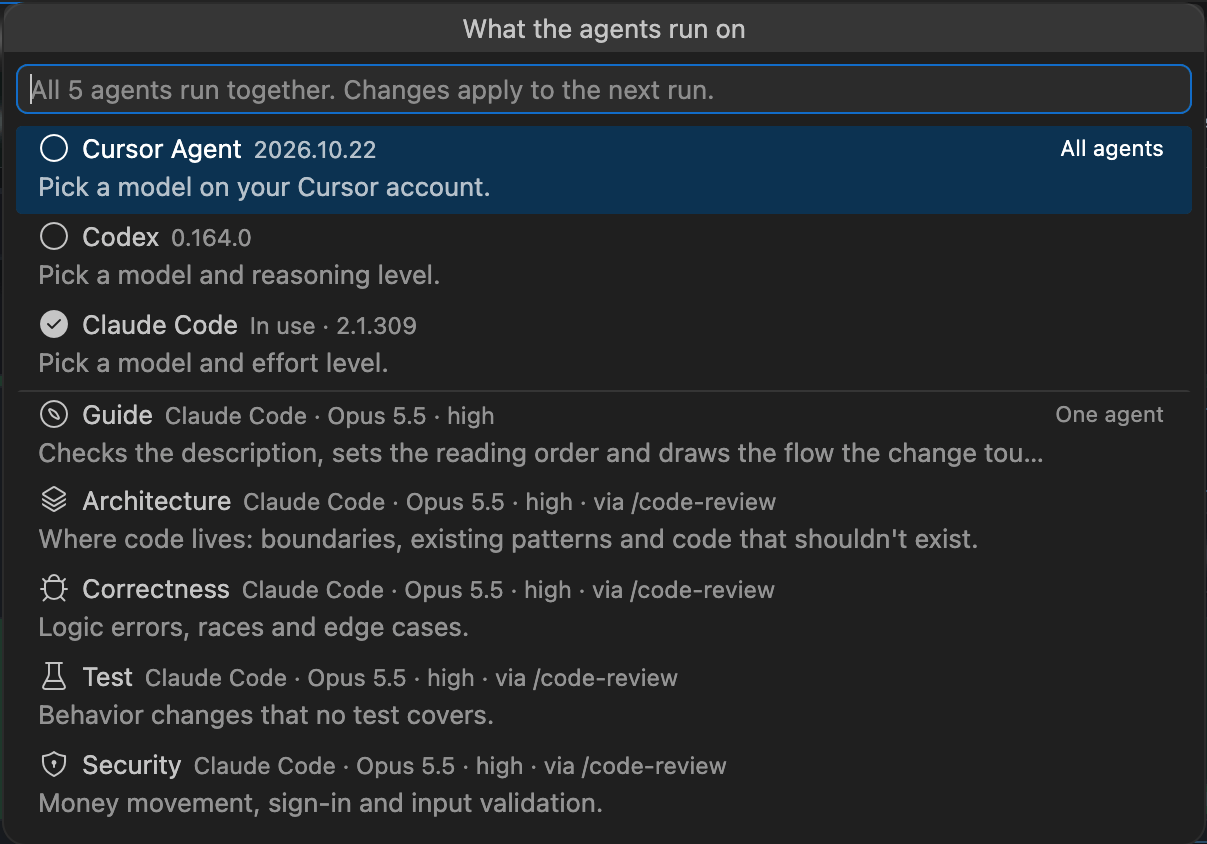
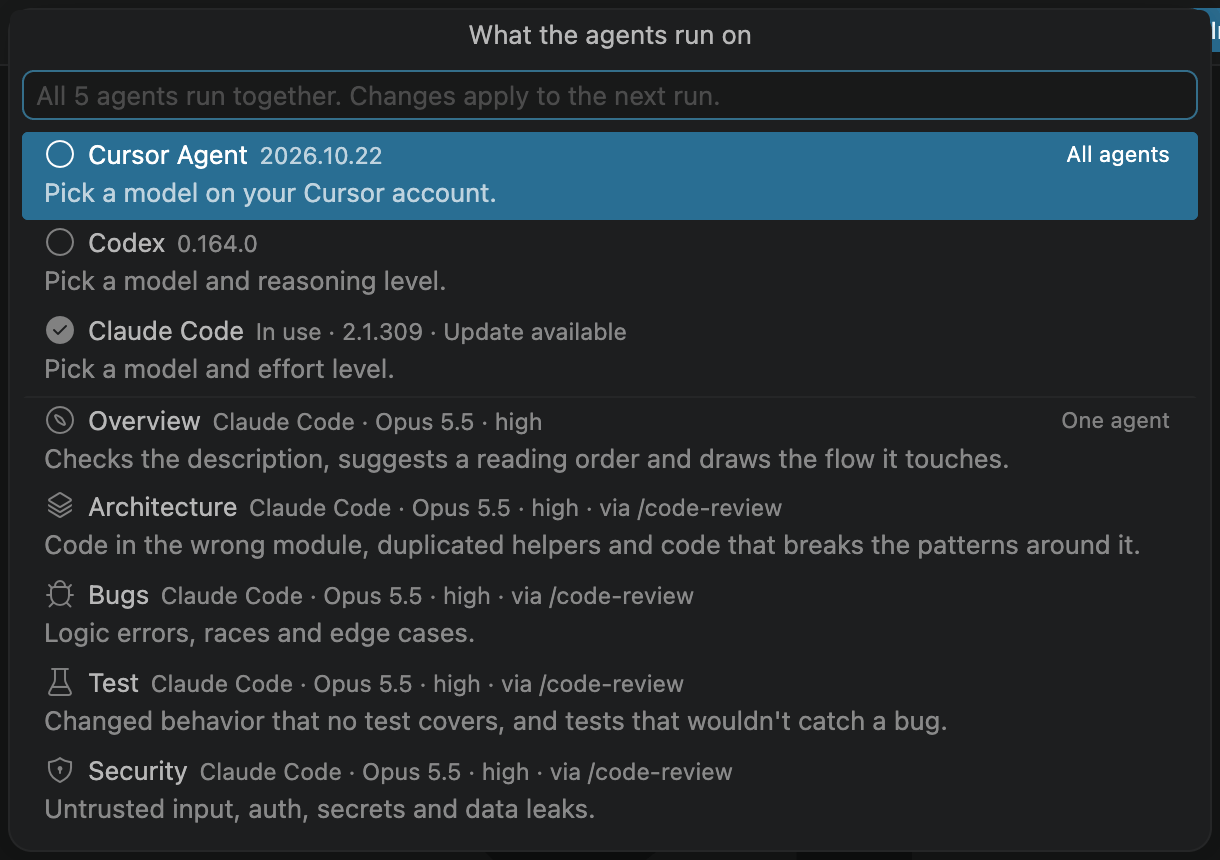
Rename the guide and correctness agents to Overview and Bugs, with clearer lines in the picker
The ids stay, so agents.yml, instruction files, saved reviews and per-PR choices keep working. An agents.yml whose
names or lines are still an earlier default gets the new ones; anything someone wrote stays.

diff --git a/docs/index.html b/docs/index.html
@@ -38,7 +38,7 @@
 <p>Click a row to open its review page. For a pull request that isn&#39;t listed, run <strong>X-RayViewer: Open a Pull Request…</strong> (<strong>⌥⇧⌘P</strong> on macOS, <strong>Ctrl+Shift+Alt+P</strong> on Windows and Linux) and paste its GitHub link.</p>
 <h3 id="2-run-the-agents">2. Run the agents</h3>
 <p><a class="shot" href="run-agents.png"><img src="run-agents.png" alt="A review page before any agent ran: No agent review yet, with Run agents and the Post all findings when finished checkbox beside it"></a></p>
-<p>Press <strong>Run agents</strong>. Five agents run together: the <strong>guide</strong> checks the description, sets the reading order, and draws the flow, while <strong>architecture</strong>, <strong>correctness</strong>, <strong>tests</strong>, and <strong>security</strong> look for problems. A run takes a few minutes, and you can read the diff meanwhile. The arrow beside <strong>Run agents</strong> picks the program and model (see <strong>Pick the program and model</strong> below).</p>
+<p>Press <strong>Run agents</strong>. Five agents run together: the <strong>overview</strong> agent checks the description, suggests a reading order, and draws the flow, while the <strong>architecture</strong>, <strong>bugs</strong>, <strong>test</strong>, and <strong>security</strong> agents look for problems. A run takes a few minutes, and you can read the diff meanwhile. The arrow beside <strong>Run agents</strong> picks the program and model (see <strong>Pick the program and model</strong> below).</p>
 <p>Leave <strong>Post all findings when finished</strong> unchecked for now. When it&#39;s checked, the run ends by posting every open finding to GitHub as comments, before you&#39;ve read them.</p>
 <h3 id="3-watch-them-work">3. Watch them work</h3>
 <p><a class="shot" href="agent-activity.png"><img src="agent-activity.png" alt="Agent Activity while a review runs: the guide agent finished in 46 seconds for $0.32, the code review agent is in progress, and four agents are covered by it"></a></p>
@@ -48,8 +48,8 @@
 <p><a class="shot" href="findings.png"><img src="findings.png" alt="The briefing after a run: the flow drawn as 8 steps, then 2 medium and 10 low findings, Add all 12 to my review, and 10 things checked and fine"></a></p>
 <p>When the run finishes, the top of the page is the agents&#39; briefing: a summary of the change, how well the description covers what your team asks for, the flow the change touches, and the findings grouped by <strong>High</strong>, <strong>Medium</strong>, and <strong>Low</strong>. Click a finding to jump to its line. <strong>10 things checked and fine</strong> lists what the agents looked at and cleared.</p>
 <h3 id="5-read-the-change-in-order">5. Read the change in order</h3>
-<p><a class="shot" href="map.png"><img src="map.png" alt="The map: the guide agent&#39;s drawing of the flow, each numbered box linked to its lines, and a Start here list of the boxes with findings"></a></p>
-<p>The rail on the left splits the diff into chapters, in the order the guide suggests: code that the rest depends on comes first. <strong>Map</strong> draws the flow the change touches. Each numbered box links to its lines, and <strong>Follow the flow</strong> walks you through them.</p>
+<p><a class="shot" href="map.png"><img src="map.png" alt="The map: the overview agent&#39;s drawing of the flow, each numbered box linked to its lines, and a Start here list of the boxes with findings"></a></p>
+<p>The rail on the left splits the diff into chapters, in the order the overview agent suggests: code that the rest depends on comes first. <strong>Map</strong> draws the flow the change touches. Each numbered box links to its lines, and <strong>Follow the flow</strong> walks you through them.</p>
 <p>Mark each hunk reviewed as you go. The ring at the top counts them, and <strong>Saved locally</strong> in the bar means your marks and drafts are on disk. Press <code>j</code> and <code>k</code> to move between hunks, <code>r</code> to mark one reviewed, and <code>c</code> to comment.</p>
 <h3 id="6-decide-each-finding">6. Decide each finding</h3>
 <p><a class="shot" href="finding-on-line.png"><img src="finding-on-line.png" alt="A finding under the line it&#39;s about: the agent, severity, and confidence, what&#39;s wrong, How the agent got there, a suggested fix, and Add to my review, Add all 12, Copy, and Dismiss"></a></p>
@@ -62,7 +62,7 @@
 <p>Press <strong>Post review</strong> in the bar. The sheet sums up what you reviewed and what will be sent. Pick <strong>Comment</strong>, <strong>Approve</strong>, or <strong>Request changes</strong>, add a summary, and press <strong>Post to GitHub</strong>. It asks once more, <strong>Post as @you to owner/name #12?</strong>, and <strong>Post now</strong> sends it. <strong>Preview what&#39;s sent</strong> shows the exact text first.</p>
 <p>After that the button says <strong>Update review</strong>, the line under the title says what you did, such as &quot;You approved this 2 hours ago&quot;, and the sidebar row says <strong>Reviewed &amp; posted</strong>.</p>
 <h2 id="how-a-review-works">How a review works</h2>
-<p><a class="shot" href="how-it-works.png"><img src="how-it-works.png" alt="How a review works: X-RayViewer reads the pull request from GitHub with gh and git, checks it out locally, runs the guide and four review agents in parallel through your model provider&#39;s CLI, and shows the briefing, chapters, map, and findings on the review page, where you decide what to keep before posting one review back to GitHub"></a></p>
+<p><a class="shot" href="how-it-works.png"><img src="how-it-works.png" alt="How a review works: X-RayViewer reads the pull request from GitHub with gh and git, checks it out locally, runs the overview agent and four review agents in parallel through your model provider&#39;s CLI, and shows the briefing, chapters, map, and findings on the review page, where you decide what to keep before posting one review back to GitHub"></a></p>
 <p>The agents read a local checkout at the pull request&#39;s head commit and change nothing. Each finding comes back with a severity, the exact line, why it matters, and a suggested comment. Your drafts, review marks, and agent results are saved on this computer, so they survive a restart. The only write to GitHub is your review, when you press <strong>Post now</strong>.</p>
 <h2 id="review-several-at-once">Review several at once</h2>
 <p>Check up to five rows in the sidebar, then use the buttons under the list. <strong>Open 2 pull requests</strong> opens each in its own tab. <strong>Review 2 and post</strong> opens them, runs their agents, and posts each one&#39;s open findings as comments when its run finishes, as if <strong>Post all findings when finished</strong> were checked on each.</p>
@@ -85,7 +85,7 @@
 <p>On a review page, the picker is for that pull request only, so two pull requests can run on different models. <strong>Use the default</strong> drops that pull request&#39;s own choice, and <strong>Change the default…</strong> changes it for every other pull request.</p>
 <p>A program that&#39;s missing says <strong>Not installed</strong>, and one with a newer release says <strong>Update available</strong>. The download button beside it installs it. <strong>Change installed version…</strong> picks another installed copy of Claude Code or Codex.</p>
 <h2 id="change-what-the-agents-look-for">Change what the agents look for</h2>
-<p>The first run writes <code>~/.xrayviewer</code> (<code>XRAYVIEWER_HOME</code> moves it): <code>agents.yml</code> lists the agents, and <code>agents/&lt;id&gt;.md</code> holds each agent&#39;s instructions under <strong>Look for</strong> and <strong>Leave alone</strong>. <strong>X-RayViewer: Customize Agents…</strong> opens them, and changes apply on the next run.</p>
+<p>The first run writes <code>~/.xrayviewer</code> (<code>XRAYVIEWER_HOME</code> moves it): <code>agents.yml</code> lists the agents, and <code>agents/&lt;id&gt;.md</code> holds each agent&#39;s instructions under <strong>Look for</strong> and <strong>Leave alone</strong>. <strong>X-RayViewer: Customize Agents…</strong> opens them, and changes apply on the next run. The ids are older than some names: the overview agent is <code>guide</code>, and the bugs agent is <code>correctness</code>.</p>
 <p>To add an agent, run <strong>X-RayViewer: New Agent…</strong>, or add a block to <code>agents.yml</code> and a matching <code>agents/migrations.md</code>:</p>
 <pre><code class="language-yaml">agents:
   migrations:

diff --git a/test/wiring.test.ts b/test/wiring.test.ts
@@ -312,6 +312,54 @@ describe("the patched extension", () => {
     assert.deepEqual(Yt().harnesses.cursor, { id: "cursor", command: state.settings["xrayviewer.cursor.path"], model: "", extraArgs: [] });
   });
 
+  test("a fresh install has the Overview, Architecture, Bugs, Test and Security agents, each with a line on what it looks at", async () => {
+    const { $t } = ext.__xrayviewer;
+    const agents = (await $t()).settings.agents as Record<string, { name: string; focus: string }>;
+    assert.deepEqual(
+      Object.entries(agents).map(([id, agent]) => [id, agent.name, agent.focus]),
+      [
+        ["guide", "Overview agent", "Checks the description, suggests a reading order and draws the flow it touches"],
+        ["architecture", "Architecture agent", "Code in the wrong module, duplicated helpers and code that breaks the patterns around it"],
+        ["correctness", "Bugs agent", "Logic errors, races and edge cases"],
+        ["tests", "Test agent", "Changed behavior that no test covers, and tests that wouldn't catch a bug"],
+        ["security", "Security agent", "Untrusted input, auth, secrets and data leaks"],
+      ],
+    );
+  });
+
+  test("an agents.yml from an earlier version gets the new names and lines, and keeps the ones someone wrote", async () => {
+    const { ut, $t } = ext.__xrayviewer;
+    const file = path.join(process.env.XRAYVIEWER_HOME!, "agents.yml");
+    const fresh = await readFile(file, "utf8");
+    const swap = (text: string, now: string, was: string) => {
+      assert.ok(text.includes(now), now);
+      return text.replace(now, was);
+    };
+    let earlier = swap(fresh, '"Overview agent"', '"Guide agent"');
+    earlier = swap(earlier, `"Checks the description, suggests a reading order and draws the flow it touches"`, '"Checks the description, sets the reading order and draws the flow the change touches"');
+    earlier = swap(earlier, '"Bugs agent"', '"Logic agent"');
+    earlier = swap(earlier, `"Changed behavior that no test covers, and tests that wouldn't catch a bug"`, '"Payments that no test covers"');
+    earlier = swap(earlier, '"Untrusted input, auth, secrets and data leaks"', '"Money movement, sign-in and input validation"');
+    try {
+      await writeFile(file, earlier);
+      await ut();
+
+      const agents = (await $t()).settings.agents as Record<string, { name: string; focus: string }>;
+      assert.deepEqual(
+        ["guide", "correctness", "tests", "security"].map((id) => [agents[id].name, agents[id].focus]),
+        [
+          ["Overview agent", "Checks the description, suggests a reading order and draws the flow it touches"],
+          ["Logic agent", "Logic errors, races and edge cases"],
+          ["Test agent", "Payments that no test covers"],
+          ["Security agent", "Untrusted input, auth, secrets and data leaks"],
+        ],
+      );
+      assert.match(await readFile(file, "utf8"), /^ {4}name: "Overview agent"$/m, "the file keeps its quotes");
+    } finally {
+      await writeFile(file, fresh);
+    }
+  });
+
   test("agents.yml keeps one agent's own level until the agent moves to another harness", async () => {
     const { Eu, xrvSetEffort, $t } = ext.__xrayviewer;
     const [id] = Object.keys((await $t()).settings.agents);
@@ -361,7 +409,7 @@ describe("the patched extension", () => {
     assert.deepEqual(pick.items.filter((item) => item.agent).map((item) => item.agent), ["pick-cursor", "install-codex", "install-claude", ...ids]);
     assert.ok(pick.items.filter((item) => item.agent).every((item) => item.iconPath instanceof ThemeIcon && item.iconPath.id === item.icon), "every row draws its icon");
     const guide = pick.items.find((item) => item.agent === "guide")!;
-    assert.equal(guide.label, "Guide");
+    assert.equal(guide.label, "Overview");
     assert.equal(guide.detail, `${agents.guide.focus}.`);
     assert.equal(guide.iconPath.id, "compass");
     assert.ok(!pick.items.some((item) => item.agent === "run" || item.agent === "default"), "the picker only saves; Run agents runs");
@@ -613,7 +661,7 @@ describe("the patched extension", () => {
 
     assert.deepEqual(result.file.agents.map((a: { id: string; short: string }) => [a.id, a.short]), [
       ["claude-code-review", "Code review"],
-      ["correctness", "Correctness"],
+      ["correctness", "Bugs"],
       ["tests", "Test"],
     ]);
     assert.deepEqual(result.file.findings.map((f: { agent: string; title: string; severity: string }) => [f.agent, f.title, f.severity]), [

diff --git a/test/support/load-extension.ts b/test/support/load-extension.ts
@@ -51,7 +51,7 @@ export function stubModule(name: string, overrides: Record<string, unknown>): ob
 export async function loadExtension(distDir: string, vscode: object) {
   const original = path.join(distDir, "extension.cjs");
   const copy = path.join(distDir, "extension.test.cjs");
-  await writeFile(copy, `${await readFile(original, "utf8")}\n;module.exports.__xrayviewer={Na,Yt,Xt,Nt,ji,zu,Mo,$t,ui,Eu,Cu,xrvSetEffort};\n`);
+  await writeFile(copy, `${await readFile(original, "utf8")}\n;module.exports.__xrayviewer={Na,Yt,Xt,Nt,ji,zu,Mo,$t,ui,Eu,Cu,xrvSetEffort,ut};\n`);
   const loader = Module as unknown as { _load: (request: string, ...rest: unknown[]) => unknown };
   const load = loader._load;
   loader._load = function (this: unknown, request: string, ...rest: unknown[]) {

diff --git a/assets/readme.md b/assets/readme.md
@@ -35,7 +35,7 @@ Click a row to open its review page. For a pull request that isn't listed, run *
 
 ![A review page before any agent ran: No agent review yet, with Run agents and the Post all findings when finished checkbox beside it](docs/run-agents.png)
 
-Press **Run agents**. Five agents run together: the **guide** checks the description, sets the reading order, and draws the flow, while **architecture**, **correctness**, **tests**, and **security** look for problems. A run takes a few minutes, and you can read the diff meanwhile. The arrow beside **Run agents** picks the program and model (see **Pick the program and model** below).
+Press **Run agents**. Five agents run together: the **overview** agent checks the description, suggests a reading order, and draws the flow, while the **architecture**, **bugs**, **test**, and **security** agents look for problems. A run takes a few minutes, and you can read the diff meanwhile. The arrow beside **Run agents** picks the program and model (see **Pick the program and model** below).
 
 Leave **Post all findings when finished** unchecked for now. When it's checked, the run ends by posting every open finding to GitHub as comments, before you've read them.
 
@@ -55,9 +55,9 @@ When the run finishes, the top of the page is the agents' briefing: a summary of
 
 ### 5. Read the change in order
 
-![The map: the guide agent's drawing of the flow, each numbered box linked to its lines, and a Start here list of the boxes with findings](docs/map.png)
+![The map: the overview agent's drawing of the flow, each numbered box linked to its lines, and a Start here list of the boxes with findings](docs/map.png)
 
-The rail on the left splits the diff into chapters, in the order the guide suggests: code that the rest depends on comes first. **Map** draws the flow the change touches. Each numbered box links to its lines, and **Follow the flow** walks you through them.
+The rail on the left splits the diff into chapters, in the order the overview agent suggests: code that the rest depends on comes first. **Map** draws the flow the change touches. Each numbered box links to its lines, and **Follow the flow** walks you through them.
 
 Mark each hunk reviewed as you go. The ring at the top counts them, and **Saved locally** in the bar means your marks and drafts are on disk. Press `j` and `k` to move between hunks, `r` to mark one reviewed, and `c` to comment.
 
@@ -91,7 +91,7 @@ After that the button says **Update review**, the line under the title says what
 
 ## How a review works
 
-![How a review works: X-RayViewer reads the pull request from GitHub with gh and git, checks it out locally, runs the guide and four review agents in parallel through your model provider's CLI, and shows the briefing, chapters, map, and findings on the review page, where you decide what to keep before posting one review back to GitHub](docs/how-it-works.png)
+![How a review works: X-RayViewer reads the pull request from GitHub with gh and git, checks it out locally, runs the overview agent and four review agents in parallel through your model provider's CLI, and shows the briefing, chapters, map, and findings on the review page, where you decide what to keep before posting one review back to GitHub](docs/how-it-works.png)
 
 The agents read a local checkout at the pull request's head commit and change nothing. Each finding comes back with a severity, the exact line, why it matters, and a suggested comment. Your drafts, review marks, and agent results are saved on this computer, so they survive a restart. The only write to GitHub is your review, when you press **Post now**.
 
@@ -146,7 +146,7 @@ A program that's missing says **Not installed**, and one with a newer release sa
 
 ## Change what the agents look for
 
-The first run writes `~/.xrayviewer` (`XRAYVIEWER_HOME` moves it): `agents.yml` lists the agents, and `agents/<id>.md` holds each agent's instructions under **Look for** and **Leave alone**. **X-RayViewer: Customize Agents…** opens them, and changes apply on the next run.
+The first run writes `~/.xrayviewer` (`XRAYVIEWER_HOME` moves it): `agents.yml` lists the agents, and `agents/<id>.md` holds each agent's instructions under **Look for** and **Leave alone**. **X-RayViewer: Customize Agents…** opens them, and changes apply on the next run. The ids are older than some names: the overview agent is `guide`, and the bugs agent is `correctness`.
 
 To add an agent, run **X-RayViewer: New Agent…**, or add a block to `agents.yml` and a matching `agents/migrations.md`:
 

diff --git a/README.md b/README.md
@@ -4,7 +4,7 @@ Review GitHub pull requests in VS Code or Cursor. Agents on your computer read t
 
 ![X-RayViewer in VS Code: your pull requests in the sidebar, and a review page with the agents' briefing, the description check, the flow, and 12 findings grouped by severity](docs/hero.png)
 
-![How a review works: X-RayViewer reads the pull request from GitHub with gh and git, checks it out locally, runs the guide and four review agents in parallel through your model provider's CLI, and shows the briefing, chapters, map, and findings on the review page, where you decide what to keep before posting one review back to GitHub](docs/how-it-works.png)
+![How a review works: X-RayViewer reads the pull request from GitHub with gh and git, checks it out locally, runs the overview agent and four review agents in parallel through your model provider's CLI, and shows the briefing, chapters, map, and findings on the review page, where you decide what to keep before posting one review back to GitHub](docs/how-it-works.png)
 
 The user guide walks through a first review with screenshots, then covers automatic runs, models, custom agents, and every setting: **[xanadupia.github.io/xrayviewer](https://xanadupia.github.io/xrayviewer)**. It's generated from [assets/readme.md](assets/readme.md), which is also the page on the Marketplace and inside the extension.
 
